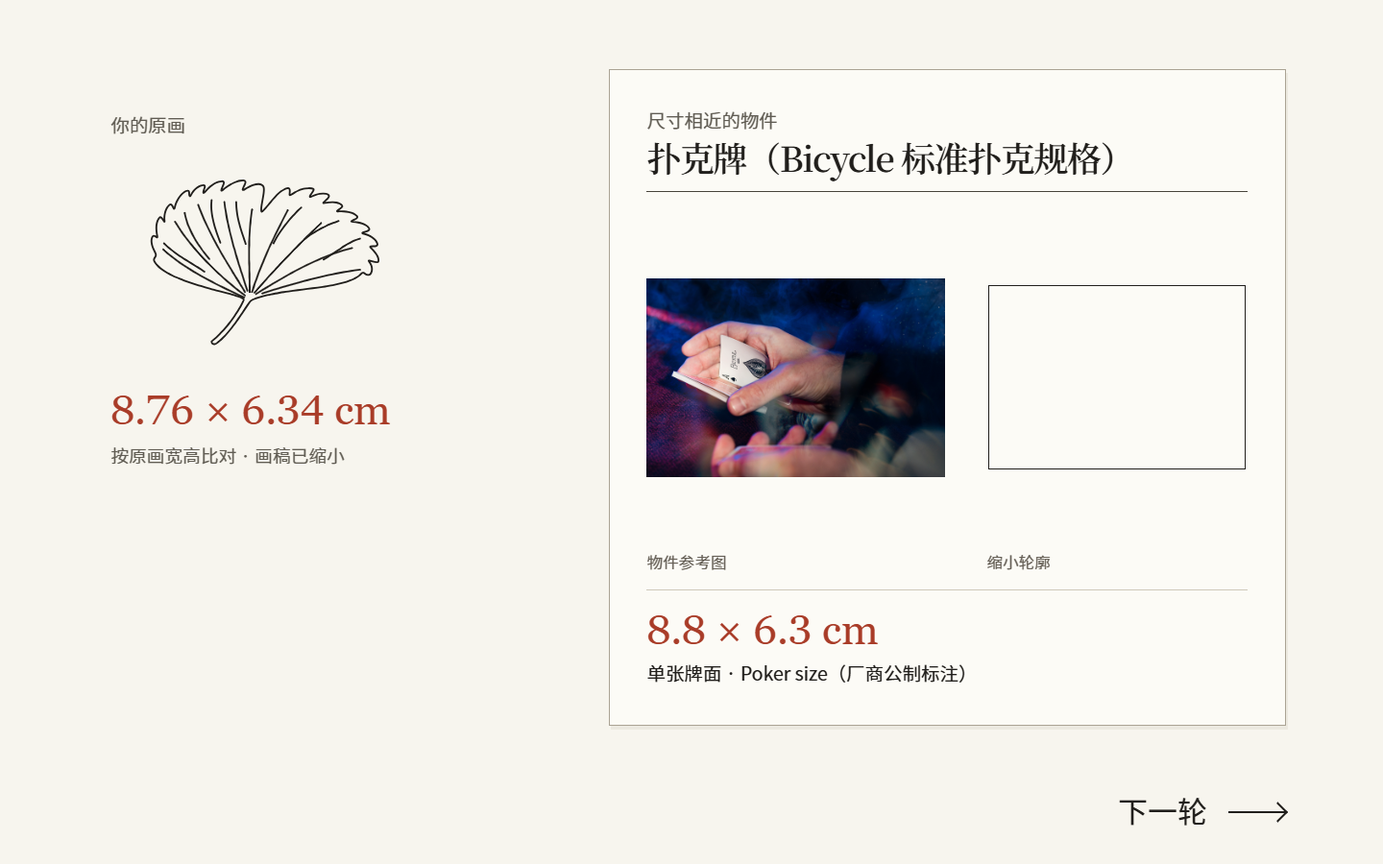
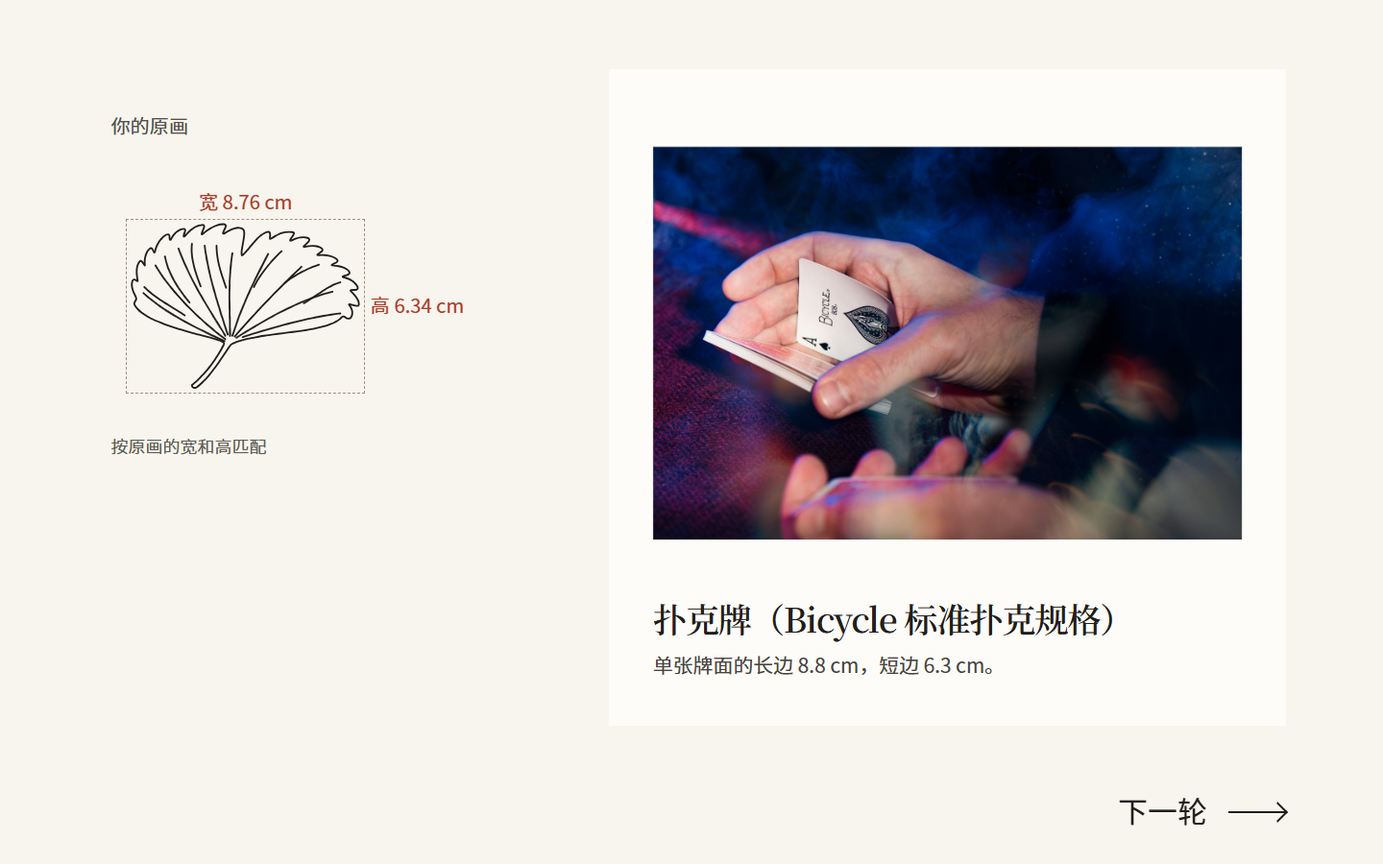
Lead specimen cards with a single photograph and annotate drawing bounds

diff --git a/exhibit.css b/exhibit.css
@@ -157,15 +157,21 @@ button:focus-visible, #viewport:focus-visible {
   position: absolute; left: 8%; top: 13%; width: 31%;
 }
 #sketch-note p, #object-card p, #object-card h2, #object-card figure { margin: 0; }
-.sketch-label, .card-heading p {
-  color: #605c53; font: 450 clamp(16px,1.35vw,25px)/1.4 var(--sans);
+.sketch-label { color:#535049; font:450 clamp(16px,1.4vw,25px)/1.4 var(--sans); }
+#art-slot { position:relative; width:100%; height:clamp(120px,31vh,340px); margin:18px 0 10px; }
+#sketch-frame {
+  position:absolute; outline:1px dashed #a78d7d; outline-offset:4px;
+  color:var(--vermilion);
+  font:400 clamp(14px,1.4vw,24px)/1.25 var(--sans);
+  font-variant-numeric:tabular-nums;
+  animation:frame-in .65s ease-out both;
 }
-#art-slot { width: 100%; height: clamp(94px,26vh,310px); margin: 12px 0; }
-#art-size, #object-size {
-  color: var(--vermilion); font: 450 clamp(24px,3.05vw,53px)/1.15 Georgia, var(--serif);
-  font-variant-numeric: lining-nums tabular-nums; overflow-wrap: anywhere;
-}
-#sketch-note #match-basis { margin-top: 8px; color: #615d54; font-size: clamp(15px,1.3vw,22px); line-height: 1.5; }
+@keyframes frame-in { 0%,55% { opacity:0; } 100% { opacity:1; } }
+#sketch-frame span { position:absolute; white-space:nowrap; }
+#frame-width { bottom:100%; padding-bottom:9px; left:50%; transform:translateX(-50%); }
+#frame-height { left:100%; top:50%; padding-left:11px; transform:translateY(-50%); }
+#sketch-frame.thin-frame #frame-height { top:100%; transform:none; }
+#sketch-note #match-basis { color:#625e55; font-size:clamp(14px,1.25vw,20px); line-height:1.5; }
 #card-slot {
   position: absolute; right: 7%; top: 8%; width: min(49%,760px); height: min(76%,750px);
   display: grid; place-items: stretch;
@@ -179,40 +185,26 @@ button:focus-visible, #viewport:focus-visible {
 #exhibit:has(#search-status:not([hidden])):where([data-scene="result"]) { background-color:#eae7df; }
 @keyframes searching { 0% { opacity:.12; } 42% { opacity:.72; } 100% { opacity:.3; } }
 #object-card {
-  width: 100%; height: 100%; min-height: 0; min-width: 0;
-  display: grid; grid-template-rows: auto minmax(0,1fr) auto;
-  padding: clamp(16px,2.7vw,48px);
-  background: #fcfbf6; border: 1px solid #aaa394;
-  box-shadow: 2px 4px 0 rgba(79,66,43,.07);
-  animation: card-arrive .42s cubic-bezier(.2,.76,.26,1) backwards;
+  width:100%; height:100%; min-height:0; min-width:0;
+  display:grid; grid-template-rows:minmax(0,1fr) auto;
+  gap:clamp(16px,3vh,38px); padding:clamp(22px,3.2vw,54px);
+  background:#fdfcf8;
+  animation:card-arrive .42s cubic-bezier(.2,.76,.26,1) backwards;
 }
 @keyframes card-arrive { from { opacity:0; transform:translateX(22px); } to { opacity:1; transform:none; } }
-.card-heading { padding-bottom: clamp(10px,1.6vh,22px); border-bottom: 1px solid #48443b; }
-#object-card h2 { margin-top: 5px; font: 580 clamp(26px,3.35vw,60px)/1.12 var(--serif); letter-spacing: -.04em; overflow-wrap: anywhere; }
-#object-card h2.long-name { font-size: clamp(22px,2.5vw,43px); }
-.card-figures {
-  min-height: 0; min-width: 0; display:grid; grid-template-columns:1.14fr 1fr;
-  gap: 7%; padding: clamp(8px,2vh,24px) 0;
+#photo-reference { position:relative; min-width:0; min-height:0; display:grid; place-items:center; }
+#reference-photo {
+  position:absolute; width:100%; height:100%; max-width:var(--photo-max-width,100%);
+  max-height:var(--photo-max-height,100%); object-fit:contain; mix-blend-mode:multiply;
 }
-.card-figures figure { min-width: 0; min-height: 0; display: grid; grid-template-rows: minmax(0,1fr) auto; gap: 6px; }
-.figure-field { position: relative; display: grid; place-items: center; min-height: 0; min-width: 0; }
-#reference-photo { position: absolute; width: 100%; height: 100%; object-fit: scale-down; mix-blend-mode: multiply; }
-.card-figures figcaption { color: #666057; font: 400 clamp(13px,1.15vw,20px)/1.3 var(--sans); }
-#standard-object { position:absolute; color:var(--ink); }
-#standard-object[data-shape="rectangle"], #standard-object[data-shape="circle"] { border:1.5px solid; }
-#standard-object[data-shape="circle"], #standard-object[data-shape="circle"] #range-limit { border-radius:50%; }
-#standard-object[data-shape="circle"] #range-limit {
-  position:absolute; left:50%; top:50%; transform:translate(-50%,-50%); border:1px dashed;
+.card-detail { grid-row:2; }
+#object-card h2 { font:560 clamp(26px,3vw,52px)/1.18 var(--serif); letter-spacing:-.035em; overflow-wrap:anywhere; }
+#object-card h2.long-name { font-size:clamp(21px,2.45vw,41px); }
+#object-card #object-description {
+  margin-top:.6em; max-width:34em;
+  font:400 clamp(16px,1.45vw,24px)/1.55 var(--sans);
+  color:#48443c; overflow-wrap:anywhere;
 }
-#standard-object[data-shape="line"] { background:linear-gradient(currentColor,currentColor) center / 100% 1.5px no-repeat; }
-#standard-object[data-shape="line"]::before, #standard-object[data-shape="line"]::after,
-#standard-object[data-shape="line"] #range-limit {
-  content:""; position:absolute; top:10%; height:80%; width:1.5px; background:currentColor; transform:translateX(-50%);
-}
-#standard-object[data-shape="line"]::before { left:0; }
-#standard-object[data-shape="line"]::after { left:100%; }
-.card-detail { padding-top:clamp(8px,1.8vh,22px); border-top:1px solid #cec8ba; }
-#object-card #object-description { margin-top:6px; font: 400 clamp(15px,1.35vw,23px)/1.45 var(--sans); overflow-wrap:anywhere; }
 #next { bottom:clamp(8px,2.7vh,44px); right:7%; }
 @media (max-width:600px) {
   .poster-composition { left:7%; right:7%; }
@@ -224,26 +216,22 @@ button:focus-visible, #viewport:focus-visible {
 }
 @media (max-aspect-ratio: 4/5) {
   #sketch-note { left:7%; top:3%; width:86%; }
-  #art-slot { width:51%; height:13vh; min-height:0; margin:4px 0; }
+  #art-slot { width:88%; height:15vh; min-height:0; margin:10px 0 4px; }
   #sketch-note #match-basis { margin-top:3px; font-size:14px; }
-  #art-size { font-size:clamp(20px,5.4vw,38px); }
   #card-slot { top:32%; right:5%; width:88%; height:57%; }
-  #object-card { padding:clamp(15px,4.5vw,32px); }
+  #object-card { padding:clamp(18px,5vw,32px); gap:14px; }
   #object-card h2 { font-size:clamp(24px,6.5vw,42px); }
   #object-card h2.long-name { font-size:clamp(20px,5.3vw,34px); }
   #next { right:5%; bottom:1vh; min-height:44px; }
 }
 @media (max-height:490px) and (min-aspect-ratio:4/5) {
   #sketch-note { top:8%; left:6%; }
-  #art-slot { height:28vh; min-height:0; margin:5px 0; }
+  #art-slot { height:35vh; min-height:0; margin:8px 0; }
   #card-slot { top:3%; right:4%; width:53%; height:82%; }
-  #object-card { padding:12px 18px; }
+  #object-card { padding:13px 20px; gap:8px; }
   #object-card h2 { font-size:25px; }
   #object-card h2.long-name { font-size:20px; }
-  .card-heading, .card-detail { padding-block:5px; }
-  .card-figures { padding-block:6px; }
-  .card-heading p, .card-figures figcaption, #object-card #object-description { font-size:13px; }
-  #object-size { font-size:22px; }
+  #object-card #object-description { font-size:14px; line-height:1.35; margin-top:4px; }
   #next { min-height:40px; bottom:1px; right:4%; font-size:19px; }
 }
 .vertical-reference .poster-composition { position:static; transform:none; }

diff --git a/catalog.js b/catalog.js
@@ -204,5 +204,95 @@
     return { item, measurement, geometry, sizeLabel, basis, equivalentItems };
   }
 
-  window.ExhibitCatalog = { get entries() { return window.ExhibitItems || []; }, measure, match };
+  // Describe the museum's measurement in its original orientation and scope.
+  // Comparing can rotate a rectangle and can show the upper bound of a range.
+  const rectParts = {
+    "单枚标签轮廓": "单枚标签", "纸张正面": "一张纸", "单张纸面": "一张纸",
+    "封好后的信封平面": "封好后的信封", "封口后正面外沿": "封好后的信封",
+    "表壳正面（不含表带）": "单独量表壳时，正面轮廓", "侧面外接框（口宽×高）": "从侧面量蛋筒口的宽和蛋筒的高，外框",
+    "口部俯视外接框": "从上方量蛋筒口，外框", "展开平面外轮廓": "把书皮铺平，外轮廓",
+    "正面外接框（最大宽×总高）": "从正面量最宽处和总高，外框", "正面外接框（宽×高）": "正面外框",
+    "瓶身外径 × 瓶体总高": "从侧面量瓶身外径和总高，外框", "正面外接矩形（宽面）": "电池较宽的那一面",
+    "闭合机身俯视外接矩形": "合上电脑后，从正上方量机身，外框",
+    "显示器面板外接矩形；不含支架": "只量支架上方的显示器面板，外框",
+    "收拢状态机身正面外接矩形": "将打印机收拢后，机身的正面外框",
+    "机身俯视外接矩形": "从正上方量机身，外框"
+  };
+
+  const roundParts = {
+    "单枚标签轮廓": "一枚圆贴的直径", "管端外圆": "管口的外径",
+    "共同面外径": "硬币的直径", "币面外径": "硬币的直径", "正面外径": "硬币的直径",
+    "软木球头外圆": "软木球头的直径", "羽毛裙端外圆": "羽毛张开一端的直径",
+    "球体投影圆": "球的直径", "单球投影圆": "一颗球的直径", "冰球顶面": "冰球顶面的直径",
+    "蛋筒底外径": "蛋筒底部的外径", "蛋筒口外径": "蛋筒开口的外径",
+    "蛋挞俯视外径": "从上方量，蛋挞的外径", "最大外径（非杯口内径）": "从容器最宽处横量，外径",
+    "俯视面包外缘直径": "量到面包外缘为止，直径", "壶身最大外圆（不含手柄）": "单独量壶身最宽处，直径",
+    "标称直径": "从上方量，外缘直径", "俯视标称外径": "从上方量，外缘直径"
+  };
+
+  const lineParts = {
+    "表壳长边（不含表带）": "单独量表壳，长边", "蛋筒高度": "从筒底到筒口的高度",
+    "电池总高（轴向）": "沿电池中轴从一端量到另一端，长度", "电池总高": "电池两端之间的高度",
+    "钟体外径长度": "沿钟面中心横量，钟体的外径", "罐体/瓶体高度": "从容器底部到顶部的高度",
+    "总高度": "从底部到顶部的高度", "机身总宽度": "横向量机身，两侧之间的距离",
+    "机身总高度": "从机身底部量到顶部，高度", "收拢状态机身深度": "收拢机身后，从前到后的深度",
+    "俯视长轴长度": "沿长轴从一头量到另一头，长度", "长轴长度": "球体两个尖端之间的距离"
+  };
+
+  function describe(result) {
+    const item = result?.item;
+    if (!item) return "";
+    const { view, category, shape, dimension_basis: basis = "", specification_class: spec = "" } = item;
+    const approximate = /近似/.test(spec);
+    const nominal = /^(标称|公称)/.test(spec);
+    let lead = "", note = "";
+    if (category === "纸张" && /^ISO 216\b/.test(item.standard)) lead = "按 ISO 216 裁切，";
+    else if (category === "银行卡" && item.standard?.includes("ID-1")) lead = "按 ID-1 规格，";
+    else if (basis.includes("比赛规则")) lead = "按比赛规则，";
+    else if (spec === "具体型号" && !["不干胶标签", "电子钟"].includes(category)) lead = "按这款产品的规格，";
+    else if (basis.includes("冲印")) lead = "按这一冲印规格，";
+
+    let sentence;
+    if (shape === "rectangle") {
+      if (!positive(item.long_mm) || !positive(item.short_mm)) return "";
+      const long = fmtCm(item.long_mm), short = fmtCm(item.short_mm);
+      if (basis.includes("外径上限")) {
+        sentence = "封口后的标称高度是 " + long + " cm，罐身外径上限是 " + short + " cm。";
+      } else {
+        const part = rectParts[view] || (category === "纸币" ? "一张纸币" :
+          (view || "正面轮廓").replace("外接矩形", "外框").replace("单张相纸纸面", "一张相纸"));
+        const qualifier = approximate ? "约" : nominal ? "标称为" : "";
+        sentence = long === short
+          ? part + "的两边一样长，边长" + qualifier + " " + long + " cm。"
+          : part + "的长边" + qualifier + " " + long + " cm，短边" + qualifier + " " + short + " cm。";
+      }
+    } else if (shape === "circle" || shape === "line") {
+      const span = limits(item, shape === "circle" ? "diameter" : "length");
+      if (!span) return "";
+      const [lo, hi] = span;
+      const dimension = fmtCm(lo) + (lo === hi ? "" : " 至 " + fmtCm(hi)) + " cm";
+      const part = shape === "circle" ? roundParts[view] || (category === "电子钟" ? "钟体正面的外径" : "外缘直径")
+        : lineParts[view] || (view === "长边长度" ? "长边" : view === "短边长度" ? "短边" : "两端之间的距离");
+      if (basis.includes("周长÷π")) {
+        lead = "";
+        sentence = "比赛规则给出的是球的周长，换算成直径约为 " + dimension + "。";
+      } else if (basis.includes("外径上限") && shape === "line") {
+        sentence = "封好罐口后，从罐底到罐顶的标称高度是 " + dimension + "。";
+      } else {
+        const verb = approximate ? "约为 " : nominal ? "标称为 " : lo === hi ? "是 " : "为 ";
+        sentence = part + verb + dimension + "。";
+        if (basis.includes("成品有变化")) note = "实际做出的三明治会有长短差异。";
+      }
+    } else return "";
+
+    if (!note) {
+      if (category === "平板电脑" && item.image_scope?.includes("含键盘")) note = "图中配有键盘，这里只量平板本身。";
+      else if (item.image_type === "跨规格参考图") note = "配图借用其他规格作示意。";
+      else if (item.image_type === "官方系列示例") note = "配图展示的是同系列产品。";
+      else if (item.image_type === "官方包装图") note = "配图展示的是产品包装。";
+    }
+    return (lead + sentence + note).replace(/ {2,}/g, " ");
+  }
+
+  window.ExhibitCatalog = { get entries() { return window.ExhibitItems || []; }, measure, match, describe };
 })();

diff --git a/exhibit.js b/exhibit.js
@@ -177,66 +177,46 @@
 
   function arrangeComparison() {
     if (!result) return;
-    const { bounds, match } = result;
+    const { bounds } = result;
     const area = $("art-slot").getBoundingClientRect();
-    const ratio = Math.min(.68, area.width / bounds.width, area.height / bounds.height);
-    const x = area.left + (area.width - bounds.width * ratio) * .2 - bounds.x * ratio;
-    const y = area.top + (area.height - bounds.height * ratio) / 2 - bounds.y * ratio;
+    const frame = $("sketch-frame");
+    const labelW = $("frame-width").offsetWidth;
+    const topGap = $("frame-width").offsetHeight + 3;
+    const usableW = Math.max(1, area.width - $("frame-height").offsetWidth - 4);
+    const usableH = Math.max(1, area.height - topGap - 5);
+    const ratio = Math.min(.68, usableW / bounds.width, usableH / bounds.height);
+    const width = bounds.width * ratio, height = bounds.height * ratio;
+    const left = Math.max((usableW - width) * .22, (labelW - width) / 2, 0);
+    const top = topGap + (usableH - height) / 2;
+    Object.assign(frame.style, { left:px(left), top:px(top), width:px(width), height:px(height) });
+    frame.classList.toggle("thin-frame", height < 15);
+    const x = area.left + left - bounds.x * ratio;
+    const y = area.top + top - bounds.y * ratio;
     drawing.style.transform = "translate(" + px(x) + ", " + px(y) + ") scale(" + ratio + ")";
-
-    if ($("object-card").hidden || !match) return;
-    const g = match.geometry;
-    const width = scale.toPx(g.widthMm, calibration);
-    const height = scale.toPx(g.heightMm, calibration);
-    const field = $("outline-field");
-    const factor = Math.min(1, Math.max(1, field.clientWidth - 4) / width,
-      height ? Math.max(1, field.clientHeight - 4) / height : 1);
-    const contour = $("standard-object");
-    contour.style.width = px(width * factor);
-    contour.style.height = px(height ? height * factor : 14);
-    const limit = $("range-limit");
-    limit.hidden = !g.minMm;
-    limit.removeAttribute("style");
-    if (g.minMm) {
-      const small = px(scale.toPx(g.minMm, calibration) * factor);
-      if (g.shape === "circle") limit.style.width = limit.style.height = small;
-      else limit.style.left = small;
-    }
-    const label = factor < .999999 ? "缩小轮廓" : "原大轮廓";
-    $("outline-scale").textContent = label + (g.minMm ? " · 上下限" : "");
   }
 
   const cm = mm => Number((mm / 10).toFixed(2));
   function prepareCard(match) {
     const item = match?.item;
-    $("photo-reference").hidden = !item?.image_file;
-    $("outline-reference").hidden = !item;
-    $("standard-object").dataset.shape = item?.shape || "";
-    $("standard-object").setAttribute("aria-label", item ? item.view + "，" + match.sizeLabel : "");
     $("object-name").textContent = item?.name || "暂无相近规格";
     $("object-name").classList.toggle("long-name", (item?.name.length || 0) > 14);
-    $("object-size").textContent = match?.sizeLabel || "";
-    $("object-description").textContent = item ? [item.view, item.standard || item.dimension_basis].filter(Boolean).join(" · ") : "物件库暂时没有可供比较的记录。";
+    $("object-description").textContent = item ? window.ExhibitCatalog.describe(match) : "物件库暂时没有可供比较的记录。";
+    const photo = $("reference-photo");
+    $("photo-reference").hidden = !item?.image_file;
     if (!item) return;
     const m = match.measurement;
     if (m.shape === "line") {
-      $("art-size").textContent = cm(m.lengthMm) + " cm";
-      $("match-basis").textContent = "按两端距离比对 · 画稿已缩小";
+      $("match-basis").textContent = "按两端距离 " + cm(m.lengthMm) + " cm 匹配";
     } else if (m.shape === "circle") {
-      $("art-size").textContent = "约 " + cm(m.diameterMm) + " cm";
-      $("match-basis").textContent = "按原画直径比对 · 画稿已缩小";
+      $("match-basis").textContent = "按估算直径 " + cm(m.diameterMm) + " cm 匹配";
     } else if (m.shape === "rectangle") {
-      $("art-size").textContent = cm(m.sideXmm) + " × " + cm(m.sideYmm) + " cm";
-      $("match-basis").textContent = "按原画两边比对 · 画稿已缩小";
+      $("match-basis").textContent = "按原画两条边的长度匹配";
     }
     if (item.image_file) {
-      const scope = item.image_scope || "";
-      const photo = $("reference-photo");
+      photo.alt = item.name + (item.image_scope ? "，" + item.image_scope : "");
+      photo.style.setProperty("--photo-max-width", px(item.image_width_px * 1.65));
+      photo.style.setProperty("--photo-max-height", px(item.image_height_px * 1.65));
       photo.src = item.image_file;
-      photo.alt = item.name + "，" + scope;
-      $("photo-scope").title = scope;
-      $("photo-scope").textContent = /跨规格|非本规格|并非本规格|非逐规格|系列/.test(scope) ? "同系列参考图" :
-        /底纸|包装|卷材/.test(scope) ? "含包装或底纸的参考图" : "物件参考图";
     }
   }
 
@@ -249,8 +229,9 @@
     const bounds = { x: box.x - penWidth / 2, y: box.y - penWidth / 2, width: box.width + penWidth, height: box.height + penWidth };
     const widthMm = scale.toMm(bounds.width, calibration), heightMm = scale.toMm(bounds.height, calibration);
     result = { bounds, match: null };
-    $("art-size").textContent = cm(widthMm) + " × " + cm(heightMm) + " cm";
-    $("match-basis").textContent = "按原画宽高比对 · 画稿已缩小";
+    $("frame-width").textContent = "宽 " + cm(widthMm) + " cm";
+    $("frame-height").textContent = "高 " + cm(heightMm) + " cm";
+    $("match-basis").textContent = "按原画的宽和高匹配";
     show("result");
     $("search-status").hidden = false;
     arrangeComparison();

diff --git a/index.html b/index.html
@@ -33,31 +33,22 @@
         <section id="comparison" hidden aria-label="画稿和匹配物件">
           <div id="sketch-note">
             <p class="sketch-label">你的原画</p>
-            <div id="art-slot" aria-hidden="true"></div>
-            <p id="art-size"></p>
+            <div id="art-slot">
+              <div id="sketch-frame">
+                <span id="frame-width"></span>
+                <span id="frame-height"></span>
+              </div>
+            </div>
             <p id="match-basis"></p>
           </div>
           <div id="card-slot">
             <p id="search-status" role="status">正在比对尺寸<span aria-hidden="true">…</span></p>
             <article id="object-card" hidden>
-              <header class="card-heading">
-                <p>尺寸相近的物件</p>
-                <h2 id="object-name"></h2>
-              </header>
-              <div class="card-figures">
-                <figure id="photo-reference">
-                  <div class="figure-field"><img id="reference-photo" alt="" draggable="false"></div>
-                  <figcaption id="photo-scope">参考图</figcaption>
-                </figure>
-                <figure id="outline-reference">
-                  <div class="figure-field" id="outline-field">
-                    <div id="standard-object" role="img"><span id="range-limit" hidden></span></div>
-                  </div>
-                  <figcaption id="outline-scale"></figcaption>
-                </figure>
-              </div>
+              <figure id="photo-reference">
+                <img id="reference-photo" alt="" draggable="false">
+              </figure>
               <div class="card-detail">
-                <p id="object-size"></p>
+                <h2 id="object-name"></h2>
                 <p id="object-description"></p>
               </div>
             </article>

diff --git a/运行与布展.md b/运行与布展.md
@@ -7,19 +7,19 @@
 1. 把浏览器移到展览屏，设好展出时使用的显示分辨率、系统缩放、浏览器缩放和全屏状态。
 2. 在这个浏览器打开同文件夹的 [现场校准.html](现场校准.html)。它会进入观众文件的独立设置页，两个入口共用一份本地记录。
 3. 将实物直尺的零刻度对准标线的起点刻线中心。用加减按钮或直接输入像素数，让另一端刻线中心落在实际 10 cm 处。窄竖屏使用纵向标线。点击「已与实物尺对齐，保存」，确认出现保存成功提示。
-4. 点「返回观众入口」，用同一把尺复量海报的 10 cm 标线。若揭晓卡上标有「原大轮廓」，也可用尺对照该轮廓。
+4. 点「返回观众入口」，用同一把尺复量海报的 10 cm 标线。揭晓页的虚线围住缩略画稿，上方与右侧的厘米数记录缩小前的宽和高。
 
 保存的是这台设备在当前显示条件下每毫米所占的 CSS 像素数。海报标线、画稿测量和标准物渲染共用这一个值。首次打开或已知显示参数变化时，海报会标注「待校准」，完成校准后开放绘画。校准记录随浏览器和打开位置保存。换展机、换屏幕、移动文件夹、换浏览器或调整缩放后，请按上述步骤复核。两台参数相同但物理尺寸不同的屏幕可能无法自动区分。
 
 ## 日常试玩
 
-用布展时的浏览器打开 [index.html](index.html)。从海报点「开始画」即可进入画布。若显示「待校准」，这次点击会先打开独立校准页；用直尺对齐后，点「已与实物尺对齐，保存并开始画」即可继续。可以用手指或鼠标分多笔绘画。点「画好了」，系统先测量原稿，再把笔迹定格、缩到左上角。短暂的尺寸比对提示后，右侧出现固定版式的物件卡。窄竖屏将卡放在缩稿右下方，所有结果在同一屏内。点「下一轮」回到海报。
+用布展时的浏览器打开 [index.html](index.html)。从海报点「开始画」即可进入画布。若显示「待校准」，这次点击会先打开独立校准页；用直尺对齐后，点「已与实物尺对齐，保存并开始画」即可继续。可以用手指或鼠标分多笔绘画。点「画好了」，系统先测量原稿，再把笔迹定格、缩到左上角。短暂的尺寸比对提示后，右侧出现同尺寸的物件卡，上方为一张参考图，下方为物件名和简短介绍。窄竖屏将卡放在缩稿右下方，所有结果在同一屏内。点「下一轮」回到海报。
 
 ## 物件库与匹配
 
 [data.js](data.js) 保存《标准化物件尺寸库》主表的 875 条测量记录，分为矩形 428 条、圆形 191 条、一维长度 256 条。一个实物可能分别收录正面、外径或长边。另表的 9 条待补尺寸记录留在原始压缩包中。现场复制时请带上整个 [images](images/) 文件夹，所有参考图均可离线加载。
 
-每条记录保留测量部位、毫米值、规格依据、原始证据、来源网址、配图说明及署名等字段。资料包含通用标准、具体型号、厂商标称值和区间值。物件卡按真实尺寸生成外接矩形、圆或带端点的线段。轮廓能放进卡内时按 1∶1 展示，空间不足时等比缩小，并标「缩小轮廓」。红色尺寸始终为物件原始数值。规格为区间时，圆的外圈和内虚圈分别表示最大与最小直径；线段右端为上限，中间刻线为下限。另列的参考图按自身比例显示，图片说明指明包装、图示、跨规格借图等情况。
+每条记录保留测量部位、毫米值、规格依据、原始证据、来源网址、配图说明及署名等字段。资料包含通用标准、具体型号、厂商标称值和区间值。卡片的单张主图按原比例展示。图下简介说明测量部位及尺寸，有上下限的规格直接写出范围。来源图为包装或同系列示意时，简介按原库标记说明。
 
 [catalog.js](catalog.js) 中的 `ExhibitCatalog.match(drawing, candidates)` 是本次试玩的可替换匹配规则。它接收原始笔迹、校准系数和画稿宽高，根据笔迹几何和实际尺寸选取对照规格。结果页会说明选择依据。此版本没有语义认物功能。
 
@@ -32,7 +32,7 @@
 | 正常入口与多笔绘画 | 1440 × 900 视口中从海报进入，第一笔后提示淡出，17 笔银杏叶全部保留，提交前可以继续画。 |
 | 定格与检索 | 缩小发生在读取原画外接尺寸后。预览中的 17 笔银杏原稿约为 8.76 × 6.34 cm，与 8.8 × 6.3 cm 的扑克牌对照。缩略后沿用原 SVG 路径。 |
 | 同尺寸卡片 | 在 1440 × 900、390 × 844、844 × 390 三种视口下，卡片分别约为 706 × 684、343 × 481、447 × 320 CSS px。同一视口内换物件时卡片宽高一致。 |
-| 真实尺寸与图示 | 实际几何尺寸按保存的毫米系数计算，原大和缩小轮廓均在图下标注。圆和线的范围上下限共同按同一比例显示。 |
+| 虚线参考框 | 使用缩小前的画迹外接框（含笔宽）换算真实尺寸。框随缩略图等比定位，上方标宽、右侧标高；斜线另按两端实距匹配。 |
 | 本地配图 | 对 875 条记录涉及的 489 张本地图片核对哈希，Chrome 逐张解码成功。断网从首页进入、画图、揭晓均可用。 |
 | 校准与误触 | 未校准时点击「开始画」进入校准，按实物尺保存后进入画布。已有校准记录时直接开画。零长度、参考线超出可见范围时不能保存。刷新后校准值可读。空画布及原地点按均不能提交。 |
 | 下一轮及大画稿 | 点「下一轮」回到海报，再进入时画布为空、提示复原。大稿缩入左上展示区域，390 × 844 窄屏可在原处查看整张卡片并点击下一轮。 |
